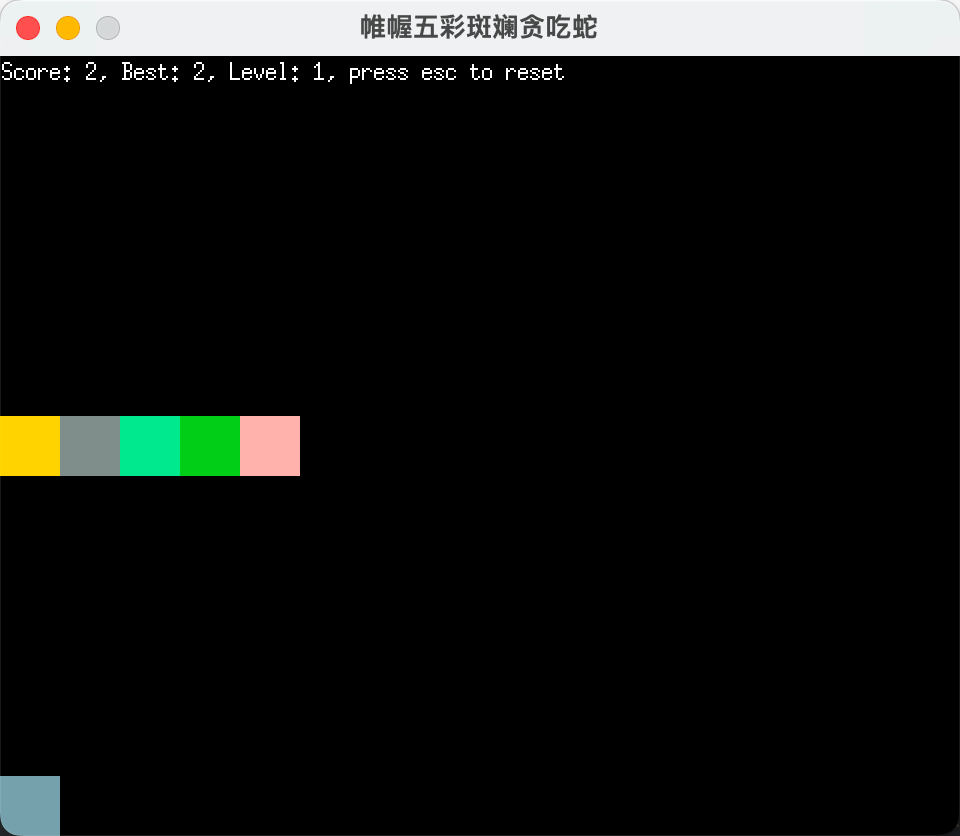
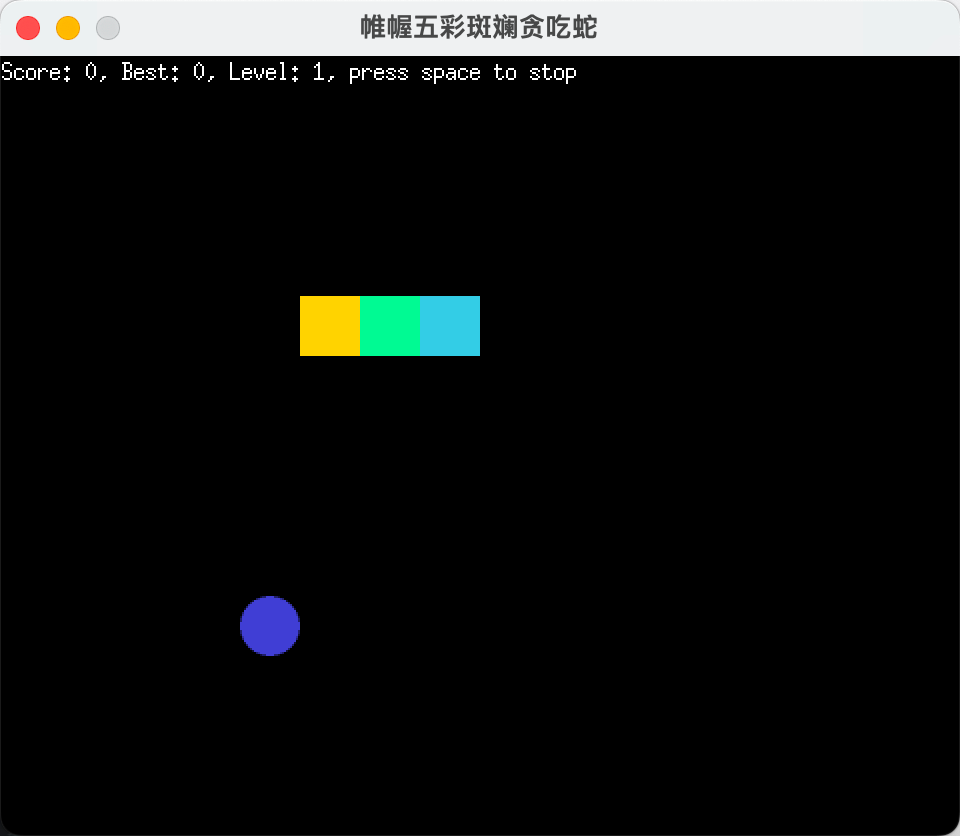
升级食物形状为圆形

diff --git a/main.go b/main.go
@@ -93,7 +93,6 @@ func (g *Game) collidesSelf() bool {
 }
 
 func (g *Game) reset() {
-	g.moveDir = dirNone
 	g.snakeBody = []PositionWithColor{{
 		p: Position{X: 6, Y: 8},
 		c: color.RGBA{
@@ -233,7 +232,7 @@ func (g *Game) Draw(screen *ebiten.Image) {
 		vector.DrawFilledRect(screen, float32(v.p.X*gridSize), float32(v.p.Y*gridSize), float32(gridSize), float32(gridSize), v.c, false)
 	}
 
-	vector.DrawFilledRect(screen, float32(g.apple.p.X*gridSize), float32(g.apple.p.Y*gridSize), float32(gridSize), float32(gridSize), g.apple.c, false)
+	vector.DrawFilledCircle(screen, float32(g.apple.p.X*gridSize)+float32(gridSize)/2, float32(g.apple.p.Y*gridSize)+float32(gridSize)/2, float32(gridSize)/2, g.apple.c, true)
 
 	if !g.finished {
 		if g.stop {
